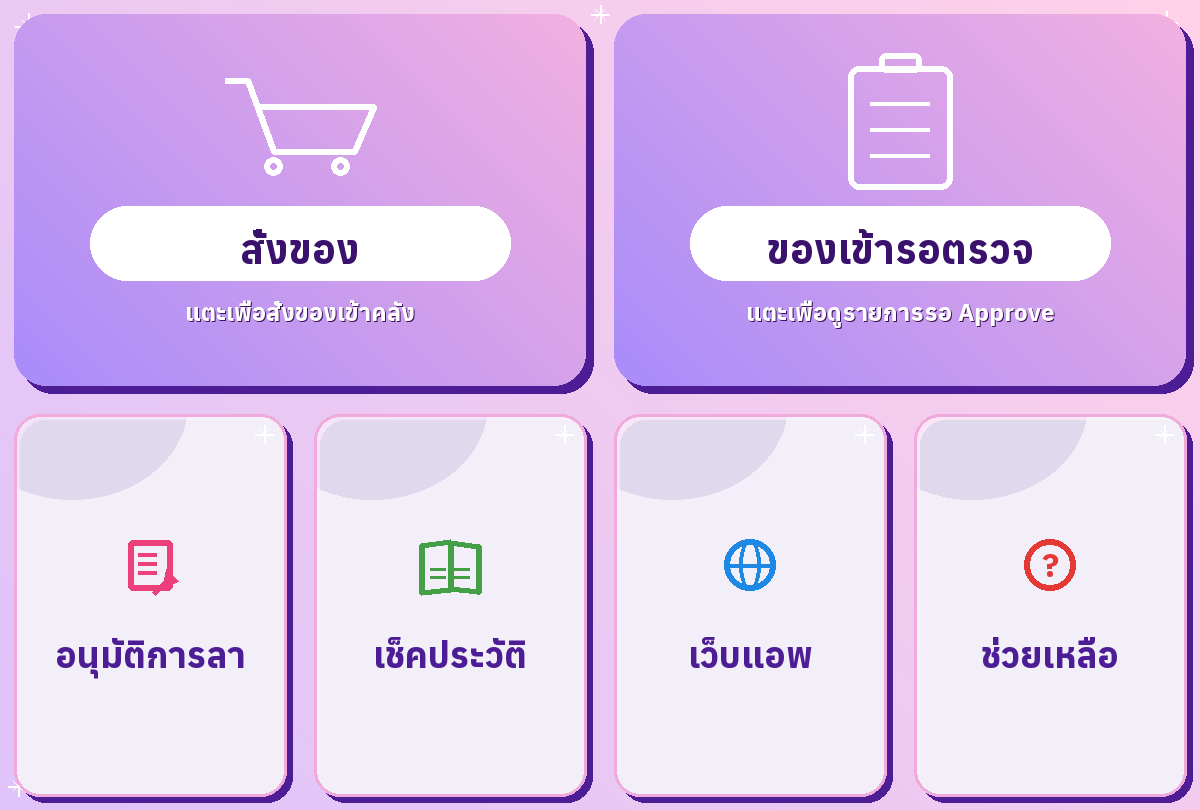
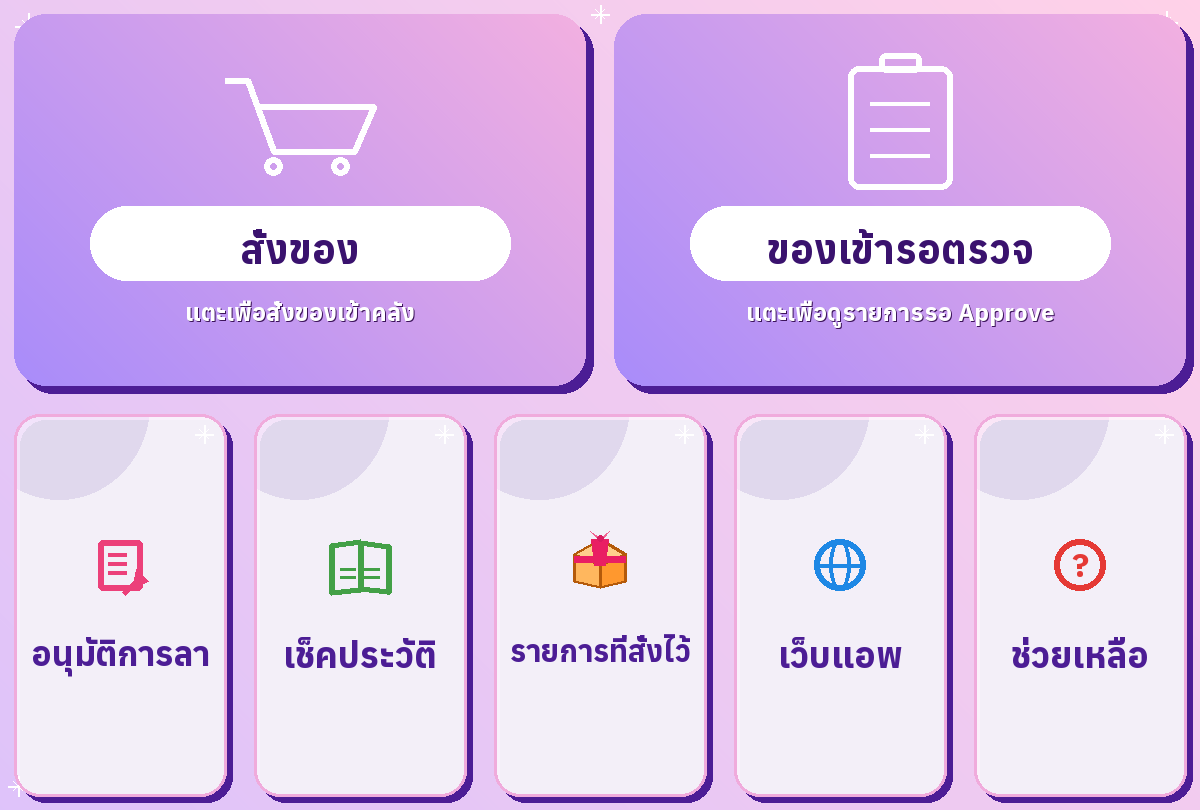
Add "รายการที่สั่งไว้" as a 5th bottom card on the Boss/Dev rich menu
Was text-only (had to know to type it) — now a real menu button too, matching the other pull-commands. Bottom row now 5 cards at 240px each instead of 4 at 300px.

Changed region(s): [[0.0308, 0.4938, 0.9558, 1.0], [0.0617, 0.6481, 0.1542, 0.7407]]

diff --git a/scripts/gen-richmenu-images.py b/scripts/gen-richmenu-images.py
@@ -341,12 +341,13 @@ draw_hero_layout(
     bottom_cards=[
         {"icon": "note_edit", "label": "อนุมัติการลา"},
         {"icon": "book", "label": "เช็คประวัติ"},
+        {"icon": "box", "label": "รายการที่สั่งไว้"},
         {"icon": "globe", "label": "เว็บแอพ"},
         {"icon": "question", "label": "ช่วยเหลือ"},
     ],
     hero_boxes=[(0, 0, 600, 400), (600, 0, 1200, 400)],
     pill_boxes=[],
-    card_boxes=[(0, 400, 300, 810), (300, 400, 600, 810), (600, 400, 900, 810), (900, 400, 1200, 810)],
+    card_boxes=[(0, 400, 240, 810), (240, 400, 480, 810), (480, 400, 720, 810), (720, 400, 960, 810), (960, 400, 1200, 810)],
 )
 
 # ── Stock tier (ฟ้า/แตง) — 1200x810 (ขยายจาก 800x540 เดิม ใส่ เช็คประวัติ/เช็ควันลาคงเหลือ เพิ่มตามที่ขอ) ──
